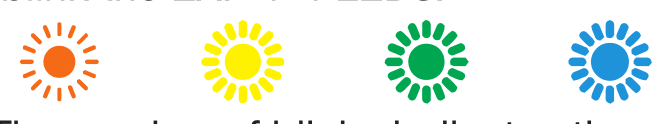
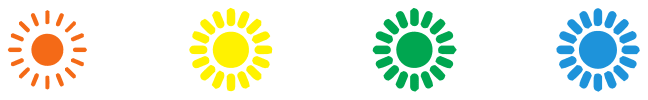
Recrop MTET figures from measured ink bands
The first conversion cut figures from page renders with bands picked by eye,
so clipped lines of neighbouring text came along. Every crop is now derived
from a row/column ink profile of a 300 dpi render (900 dpi for the small
glyphs) and verified edge by edge.

The masthead flourish was page 6's dot rule used twice; it is replaced by the
cover's own two rows, and page 6 gets its rule back under both columns. The
footer glyph is the drop printed on page 9, not the OB/NE mark. power-icon
leaves the h3 it was squeezed into, and mtet-logo-header stops being stretched
to attributes its file never had.

diff --git a/old-blood-noise-endeavors-mtet/index.html b/old-blood-noise-endeavors-mtet/index.html
@@ -26,16 +26,16 @@
           <div class="half-container no-columns masthead-content">
             <h1 class="masthead-title">MIDI TO<br>EXPRESSION<br>TRANSLATOR</h1>
             <div class="figure-center">
-              <img src="Images/colored-dots.png" alt="" width="584" height="111" />
+              <img src="Images/dots-top.png" alt="" width="593" height="43" />
             </div>
             <div class="figure-center">
-              <img src="Images/wordmark.png" alt="OBNE MTET" width="700" height="684" />
+              <img src="Images/wordmark.png" alt="OBNE MTET" width="856" height="626" />
             </div>
             <div class="figure-center">
-              <img src="Images/colored-dots.png" alt="" width="584" height="111" />
+              <img src="Images/dots-bottom.png" class="dots-narrow" alt="" width="407" height="41" />
             </div>
             <div style="display: flex; justify-content: space-between; align-items: flex-end;">
-              <img src="Images/obne-logo.png" alt="OBNE" style="width: 100px; height: auto;" width="243" height="137" />
+              <img src="Images/obne-logo.png" alt="OBNE" style="width: 100px; height: auto;" width="234" height="233" />
               <div class="masthead-subtitle">OLD BLOOD<br>NOISE ENDEAVORS</div>
             </div>
           </div>
@@ -87,14 +87,14 @@
               CC 1 100 CC 11 1 creates a value of 201 (100 * 2 + 1).</p>
             </div>
             
-            <div class="figure-center">
-              <img src="Images/midi-din-1.png" alt="" width="488" height="200" loading="lazy" />
-            </div>
-            
-            <p><strong>There is one special CC message: CC 100.</strong></p>
-            
-            <div class="figure-center">
-              <img src="Images/midi-din-2.png" alt="" width="500" height="200" loading="lazy" />
+            <div class="keep-together">
+              <div class="figure-center">
+                <img src="Images/midi-din-1.png" alt="" width="485" height="96" loading="lazy" />
+              </div>
+              <p><strong>There is one special CC message: CC 100.</strong></p>
+              <div class="figure-center">
+                <img src="Images/midi-din-2.png" alt="" width="490" height="96" loading="lazy" />
+              </div>
             </div>
             
             <p>This is used to change MTET’s MIDI Channel. Using CC 100, use any value from 1-16 to assign MTET’s new channel. For example:</p>
@@ -103,7 +103,7 @@
             <p>Upon successful reassignment, MTET will blink the EXP 1-4 LEDs.</p>
             
             <div class="figure-center">
-              <img src="Images/leds.png" alt="Orange, Yellow, Green, Blue LEDs" width="700" height="200" loading="lazy" />
+              <img src="Images/leds.png" alt="Orange, yellow, green and blue EXP LEDs blinking" width="648" height="100" loading="lazy" />
             </div>
             
             <p>The number of blinks indicates the new channel. This blinking also happens on startup, so if you ever forget what channel MTET is on, simply unplug the power, plug it back in, wait a couple seconds, then count the number of LED blinks.</p>
@@ -124,11 +124,20 @@
               <strong>THRU</strong></p>
               
               <div class="figure-center">
-                <img src="Images/midi-thru.png" alt="MIDI THRU jack" width="500" height="300" loading="lazy" />
+                <img src="Images/midi-thru.png" alt="MIDI THRU jack" width="122" height="123" loading="lazy" />
               </div>
               
               <p><strong>MIDI THRU jack.</strong><br>
               This is used to send copies of incoming messages back out through another MIDI cable, in order to daisy chain with other MIDI devices.</p>
+            </div>
+
+            <div class="section-flourish">
+              <div class="figure-center">
+                <img src="Images/dots-top.png" alt="" width="593" height="43" loading="lazy" />
+              </div>
+              <div class="figure-center">
+                <img src="Images/dots-bottom.png" class="dots-narrow" alt="" width="407" height="41" loading="lazy" />
+              </div>
             </div>
           </div>
         </div>
@@ -139,7 +148,7 @@
           <div class="half-container flow">
             <header>
               <div class="figure-center">
-                <img src="Images/mtet-logo-header.png" alt="MTET" width="500" height="363" loading="lazy" />
+                <img src="Images/mtet-logo-header.png" alt="MTET" width="312" height="237" loading="lazy" />
               </div>
               <h2 id="faq">FAQ and Troubleshooting</h2>
             </header>
@@ -150,7 +159,10 @@
             </div>
 
             <div class="keep-together">
-              <h3><img src="Images/power-icon.png" alt="9v 50mA center negative" style="width: 2em; height: auto; vertical-align: middle; margin-right: 0.5em; margin-bottom: 0;" width="529" height="177" loading="lazy" /><em>Nothing seems to be happening?</em></h3>
+              <div class="figure-center">
+                <img src="Images/power-icon.png" alt="9v 50mA center-negative power connector" width="514" height="164" loading="lazy" />
+              </div>
+              <h3><em>Nothing seems to be happening?</em></h3>
               <p>First, check the power LED. MTET requires 50mA of 9v center negative power, and the power LED will show that power is flowing.</p>
               <p>Then, check the MIDI-In LED. When you send MIDI messages, does MIDI-In light up? If it does not light, check your MIDI cables and connections, and ensure you are sending messages to MTET. If it does light, it is receiving messages.</p>
               <p>Now, CC messages 1-4 should light up their corresponding LEDs. If not, double check your MIDI channel. Remove power from MTET, then plug power back in, then count the number of EXP 1-4 LED blinks on startup (the blinks will begin a few seconds after power-up). This represents MTET’s current MIDI channel. Make sure the device sending MIDI messages to MTET is sending those messages on the correct channel.</p>
@@ -198,7 +210,7 @@
             </div>
 
             <p style="text-align: center; margin-top: 2em;">MTET requires 50mA center-negative 9v power.</p>
-            <p style="text-align: center;">Come find us. We are everywhere.<br>oldbloodnoise.com &nbsp;<img src="Images/obne-logo.png" style="height:1em; width:auto; vertical-align:middle;" alt="" width="243" height="137" loading="lazy"> 2023</p>
+            <p style="text-align: center;">Come find us. We are everywhere.<br><a href="https://oldbloodnoise.com">oldbloodnoise.com</a> &nbsp;<img src="Images/droplet.png" style="height:1em; width:auto; vertical-align:middle;" alt="" width="49" height="64" loading="lazy"> 2023</p>
           </div>
         </div>
       </section>
@@ -209,7 +221,7 @@
             <header><h3 id="user-notes">MTET USER NOTES</h3></header>
             <hr class="notes-line"><hr class="notes-line"><hr class="notes-line"><hr class="notes-line"><hr class="notes-line">
             <div class="figure-center" style="justify-content: flex-end;">
-              <img src="Images/obne-logo.png" alt="OBNE" width="243" height="137" loading="lazy" />
+              <img src="Images/obne-logo.png" alt="OBNE" style="width: 100px; height: auto;" width="234" height="233" loading="lazy" />
             </div>
           </div>
         </div>

diff --git a/old-blood-noise-endeavors-mtet/style.css b/old-blood-noise-endeavors-mtet/style.css
@@ -138,6 +138,17 @@ img {
   margin: 2em 0;
 }
 
+/* the dot flourish closes the panel in print, so it sits under both columns */
+.section-flourish {
+  column-span: all;
+}
+
+/* 407/593: the three-dot row keeps its ratio to the four-dot row once a narrow
+   column clamps both, so the dots still interleave */
+.dots-narrow {
+  max-width: 68.6%;
+}
+
 .masthead-title {
   text-align: left;
   color: var(--accent);

diff --git a/old-blood-noise-endeavors-mtet/copy-changes.md b/old-blood-noise-endeavors-mtet/copy-changes.md
@@ -1,0 +1,34 @@
+# Copy changes — Old Blood Noise Endeavors MTET
+
+Source: `00794+-+001OBNE+-+Midi+to+Expression+Translator+-+Instruction+Manual+01.17.1.pdf`,
+kept in this directory. The PDF's text is converted to outlines, so every
+passage was read off the page renders by eye; `pdftotext` returns nothing.
+
+The page was built in an earlier session that left no log. This file records
+only the departures introduced by the figure-repair pass; the body copy was
+verified word for word against the renders and matches the print.
+
+## Wording
+
+- **MIDI Command Table footer** — printed `oldbloodnoise.com`, page links it to
+  `https://oldbloodnoise.com`. Printed text kept.
+
+## Section headings
+
+The manual prints no headings for its first three sections (the panels run as
+continuous prose). `Introduction`, `Message System` and `Expression Setup` are
+editorial headings cut at the document's own seams, so the page has an outline
+and a TOC. `FAQ and Troubleshooting`, `MIDI COMMAND TABLE` and
+`MTET USER NOTES` are the manual's own wording.
+
+## Figures
+
+- The masthead flourishes come from p1: the four-dot row above the wordmark,
+  the three-dot row below it. An earlier crop used p6's two-row flourish in
+  both slots.
+- The glyph between `oldbloodnoise.com` and `2023` is the drop printed on p9,
+  not the OB/NE wordmark.
+- `THRU` above the MIDI THRU jack, `There is one special CC message: CC 100.`
+  and the FAQ questions are live text; only the drawings are images.
+- The `9v 50mA` label stays inside `power-icon.png`: it is a legend integral to
+  the connector pictogram, not prose.
